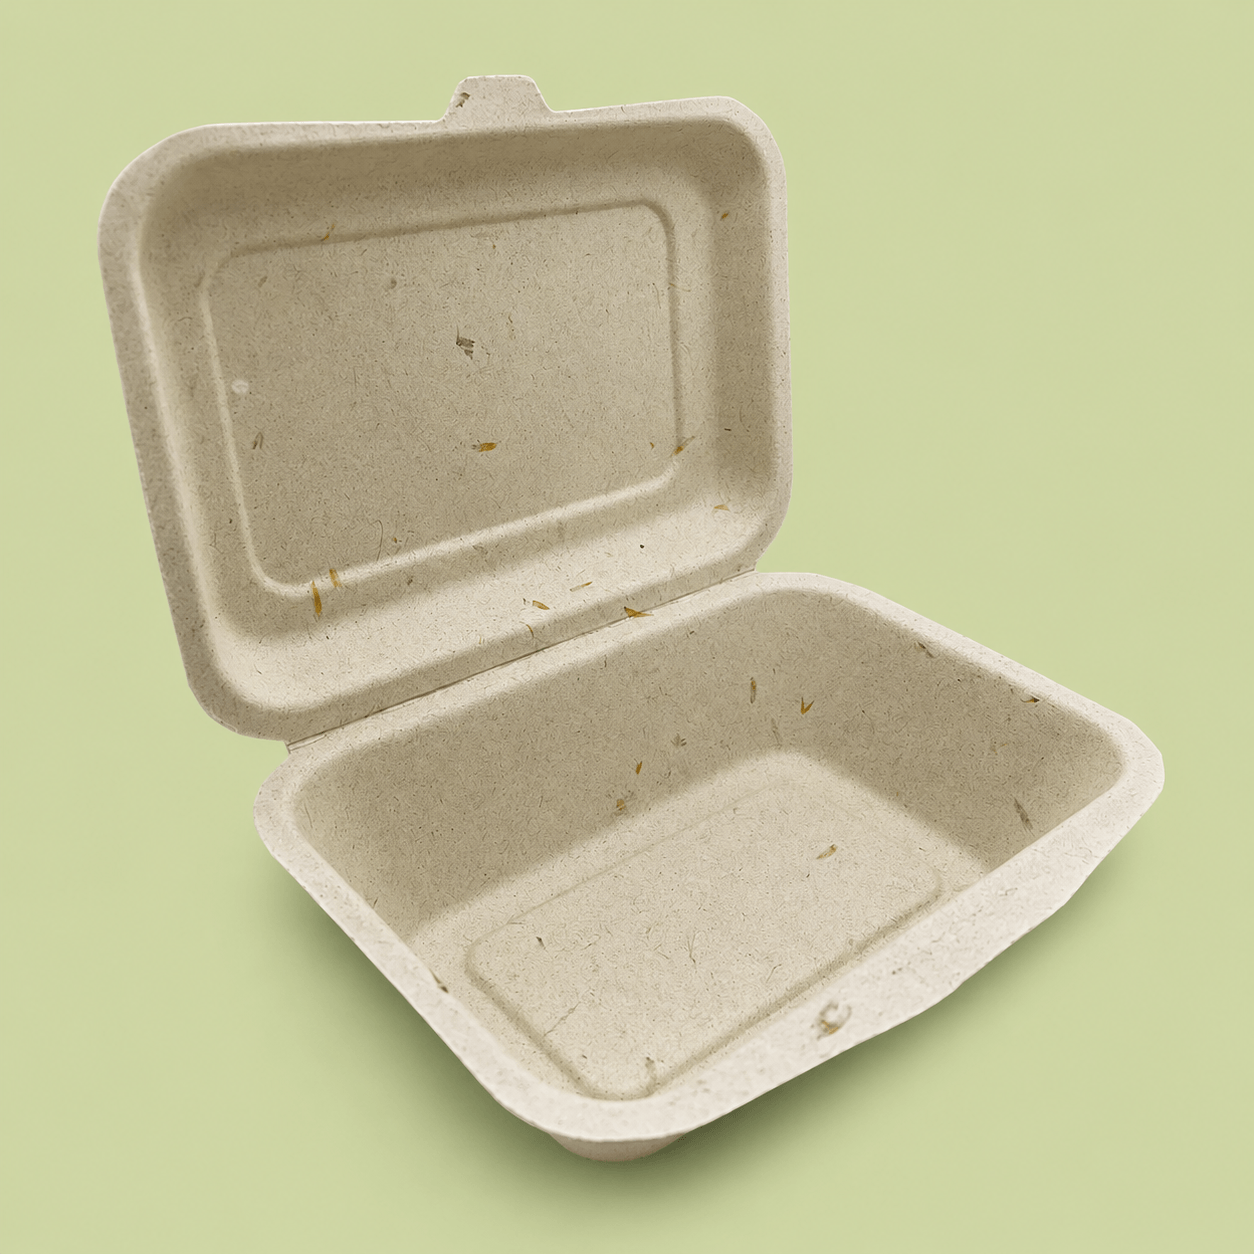
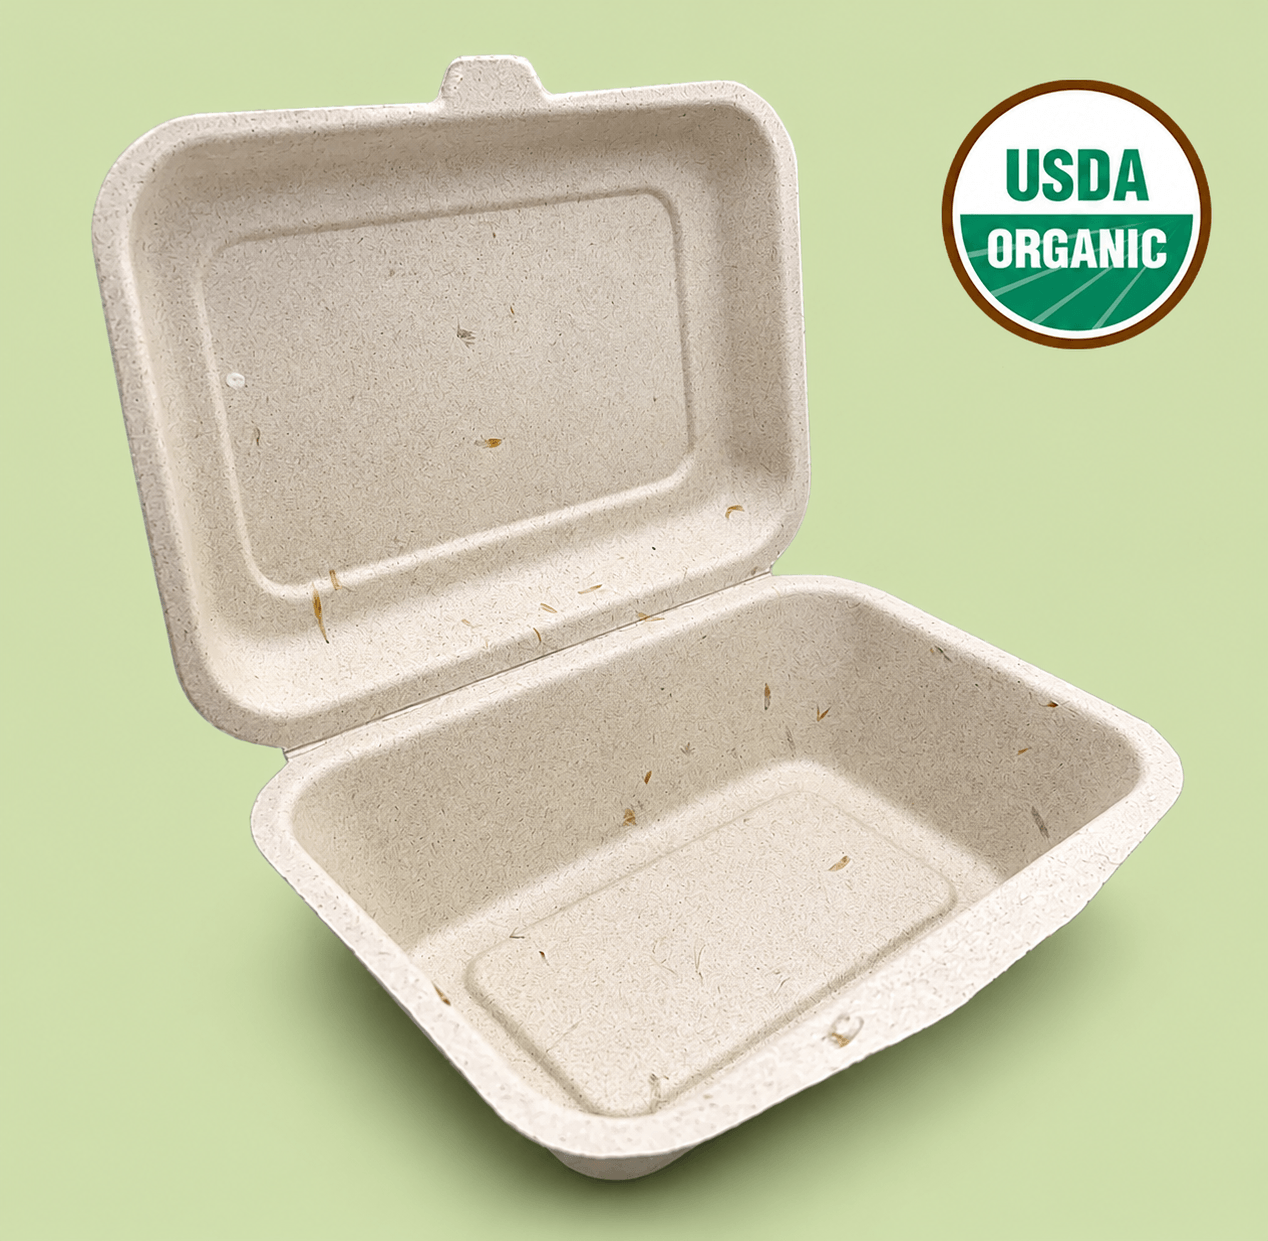
update from tony

diff --git a/app/products/page.tsx b/app/products/page.tsx
@@ -35,6 +35,8 @@ type Product = {
   body: string;
   img?: string;
   fit?: 'cover' | 'contain';
+  /** object-position for the cover crop, e.g. 'top' / 'center' / '50% 20%' */
+  pos?: string;
   bg?: string;
   label?: string;
 };
@@ -45,6 +47,7 @@ const PRODUCTS: Product[] = [
     body: 'Clamshells, bowls and plates molded from rice-straw fibre. Sturdy, microwave-safe and home-compostable — a clean swap for polystyrene.',
     img: '/assets/products/compostable-packaging.png',
     fit: 'cover',
+    pos: 'top',
   },
   {
     title: 'Compostable organic fruit trays',
@@ -86,7 +89,7 @@ const CERTS = [
   { kind: 'fda' as const, name: 'FDA Food Contact' },
 ];
 
-const MEDIA_H = 240;
+const MEDIA_H = 280;
 
 function CertBadge({
   kind,
@@ -286,6 +289,7 @@ export default function ProductsPage() {
                       alt={p.title}
                       fit={p.fit ?? 'cover'}
                       style={{ height: MEDIA_H, background: p.bg ?? '#eef0e6' }}
+                      imgStyle={{ objectPosition: p.pos ?? 'center' }}
                     />
                   ) : (
                     <ImageSlot

diff --git a/components/home/HomeHero.tsx b/components/home/HomeHero.tsx
@@ -145,7 +145,7 @@ export default function HomeHero() {
           <div className={styles.art} ref={artRef}>
             {/* eslint-disable-next-line @next/next/no-img-element */}
             <img
-              src="/assets/hero-box-transparant.png"
+              src="/assets/hero-box-transparant-2.png"
               alt="Compostable organic packaging"
             />
           </div>